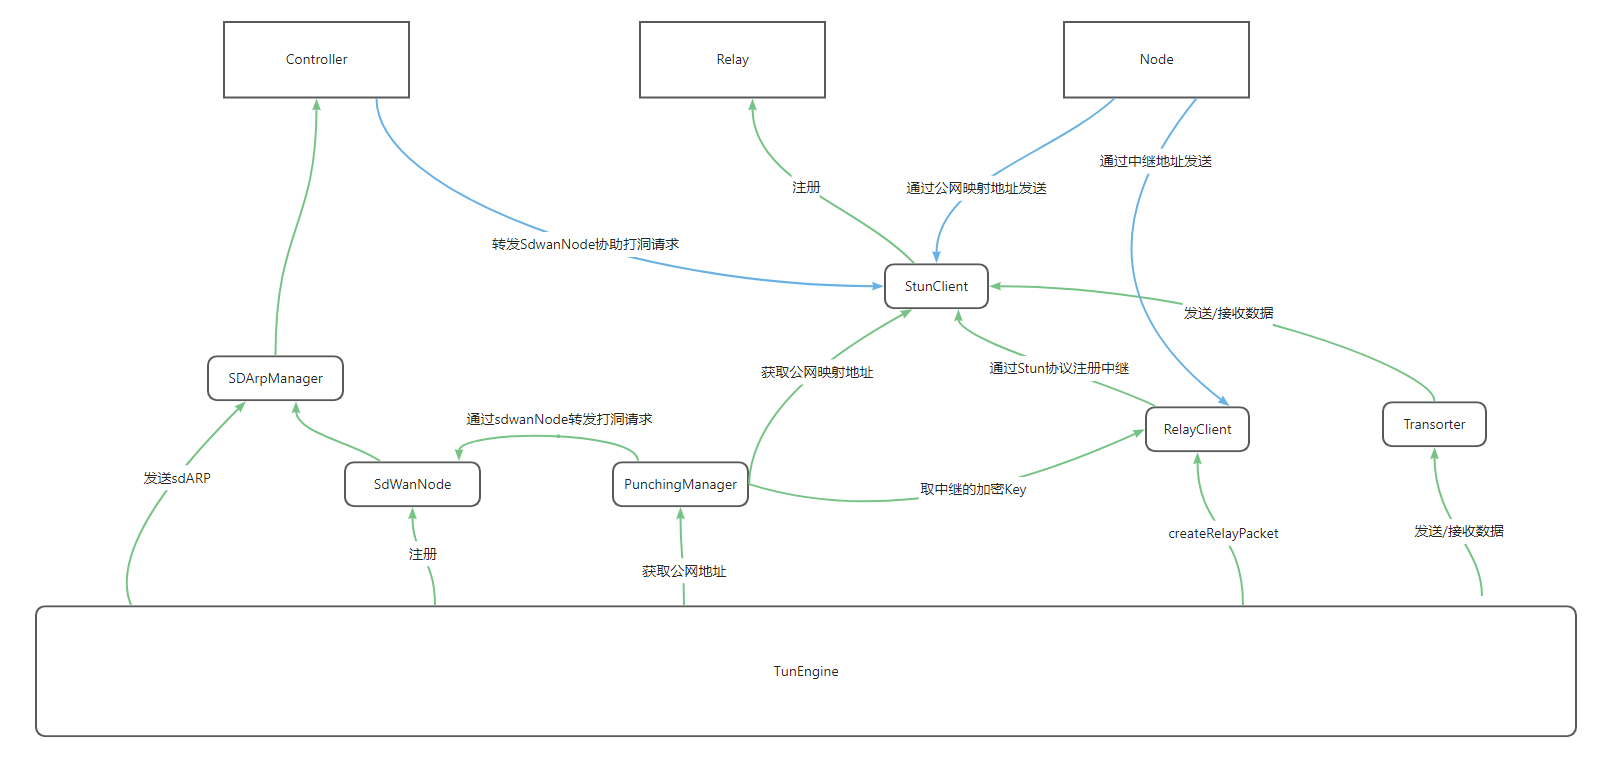
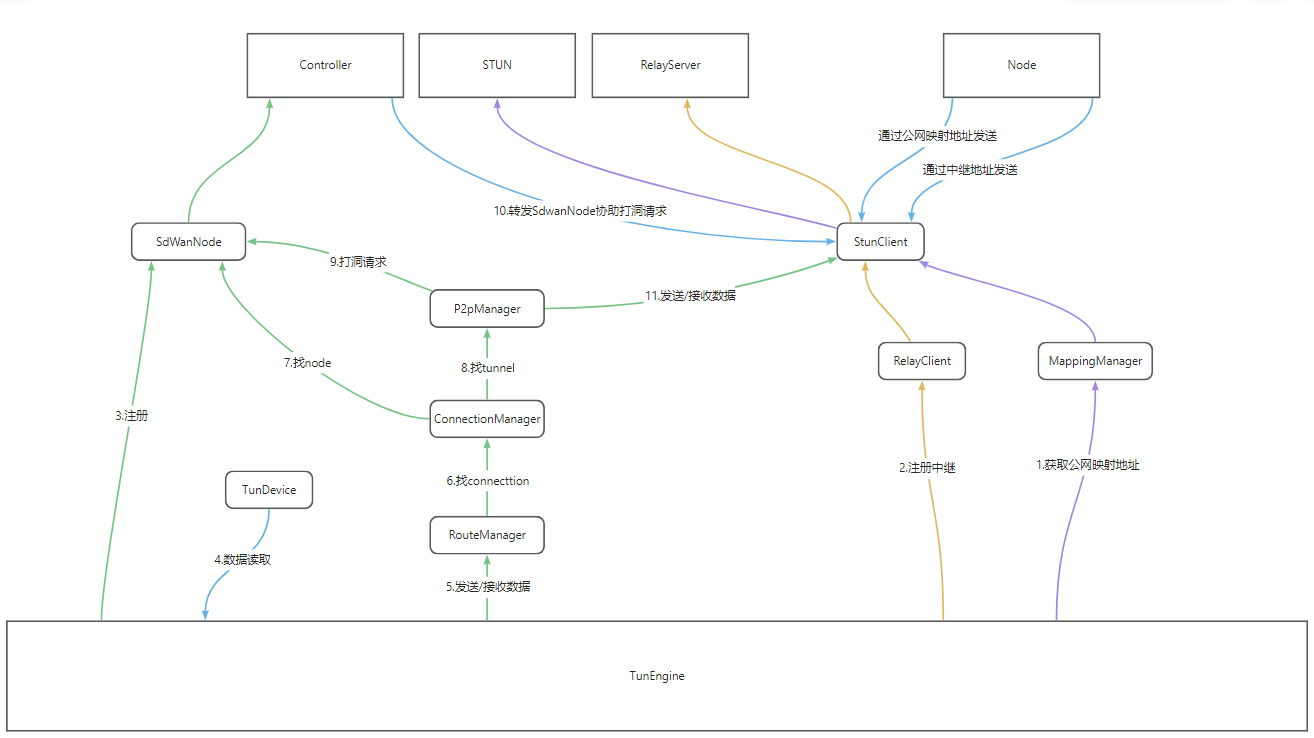
upload v2 static file

diff --git a/Readme-EN.md b/Readme-EN.md
@@ -51,6 +51,10 @@ In SD-WAN (Software-Defined Wide Area Network), the TUN device is a virtual netw
 
 In summary, TUN devices in SD-WAN act as virtual tunnel interfaces through which packets can be encrypted, routed, and transmitted, enabling core SD-WAN functionalities like secure connections, traffic management, and optimization. The use of virtualized network devices allows SD-WAN systems to manage and optimize network traffic more flexibly, providing improved performance and security.
 
+## Architecture
+
+![architecture](doc/img/architecture.png)
+
 ## Component Dependencies
 
 ![Component Dependencies](doc/img/componentRel.png)
